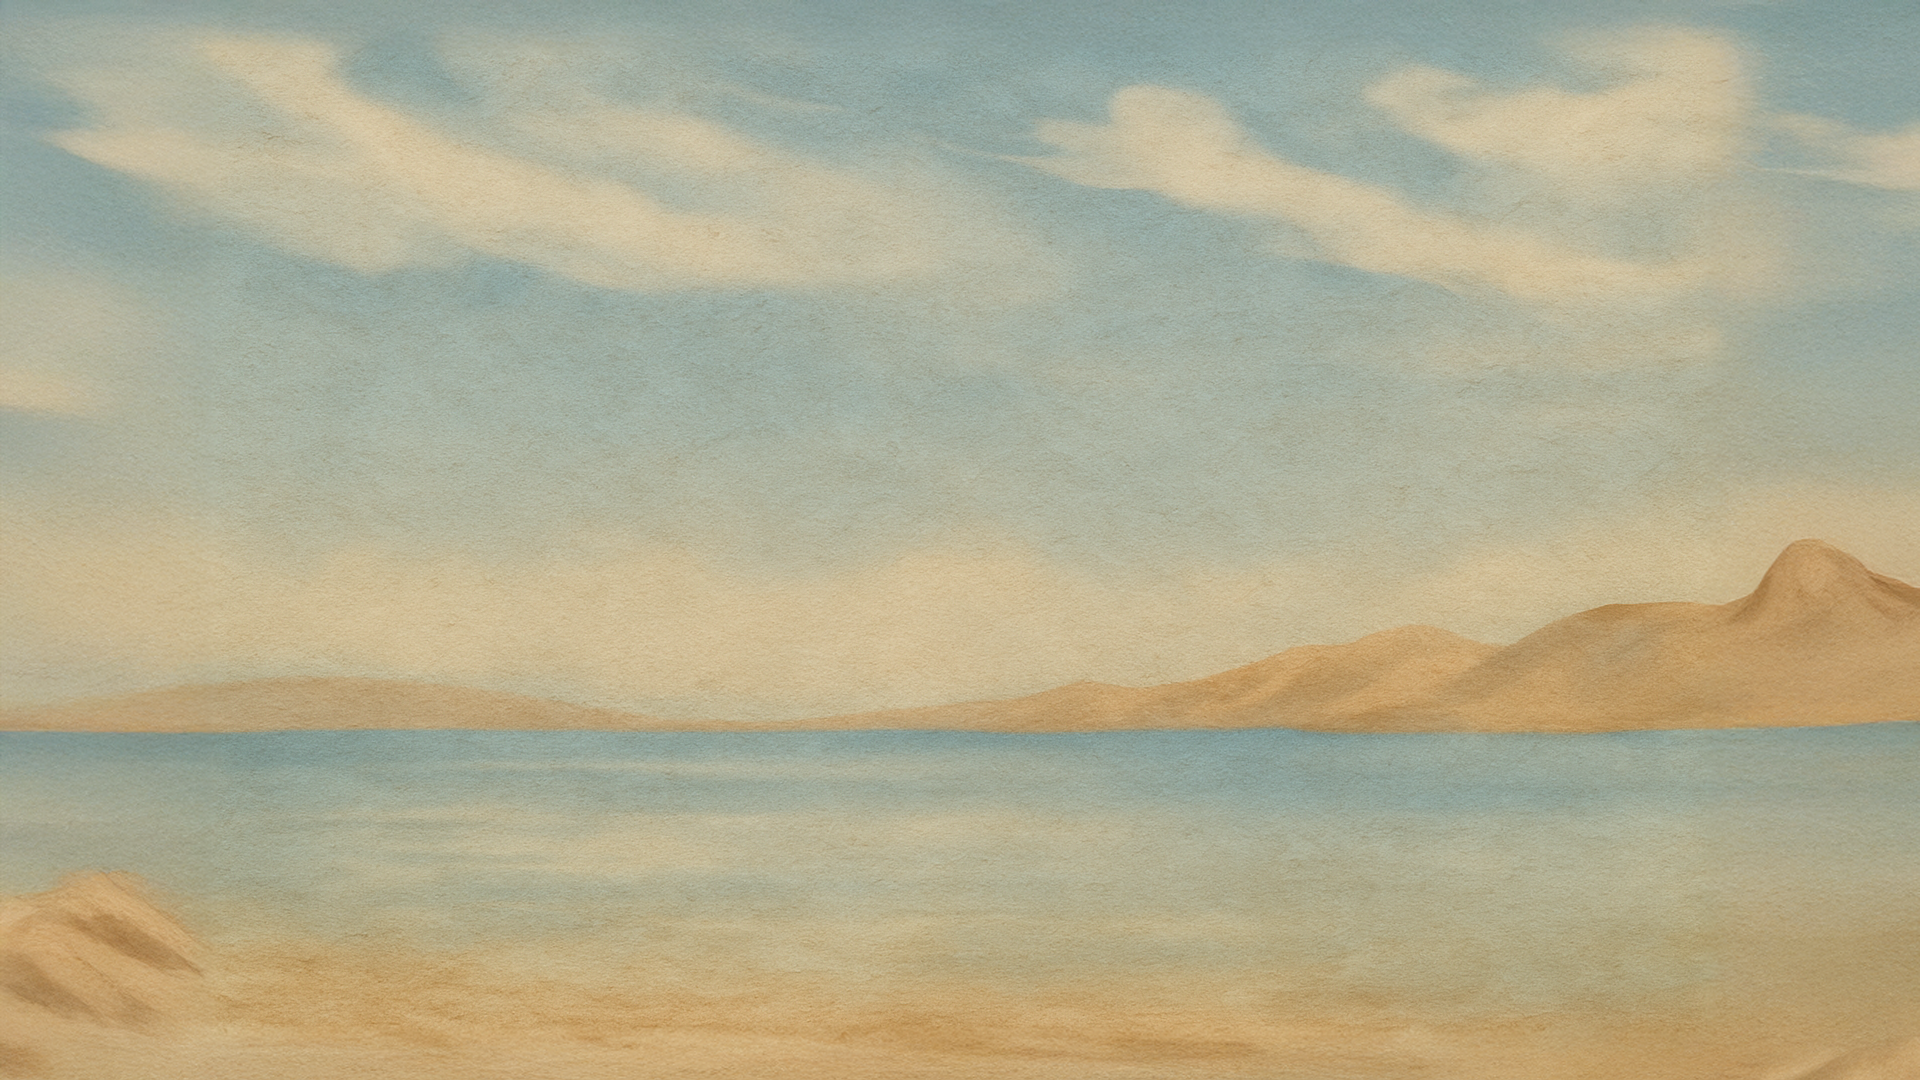
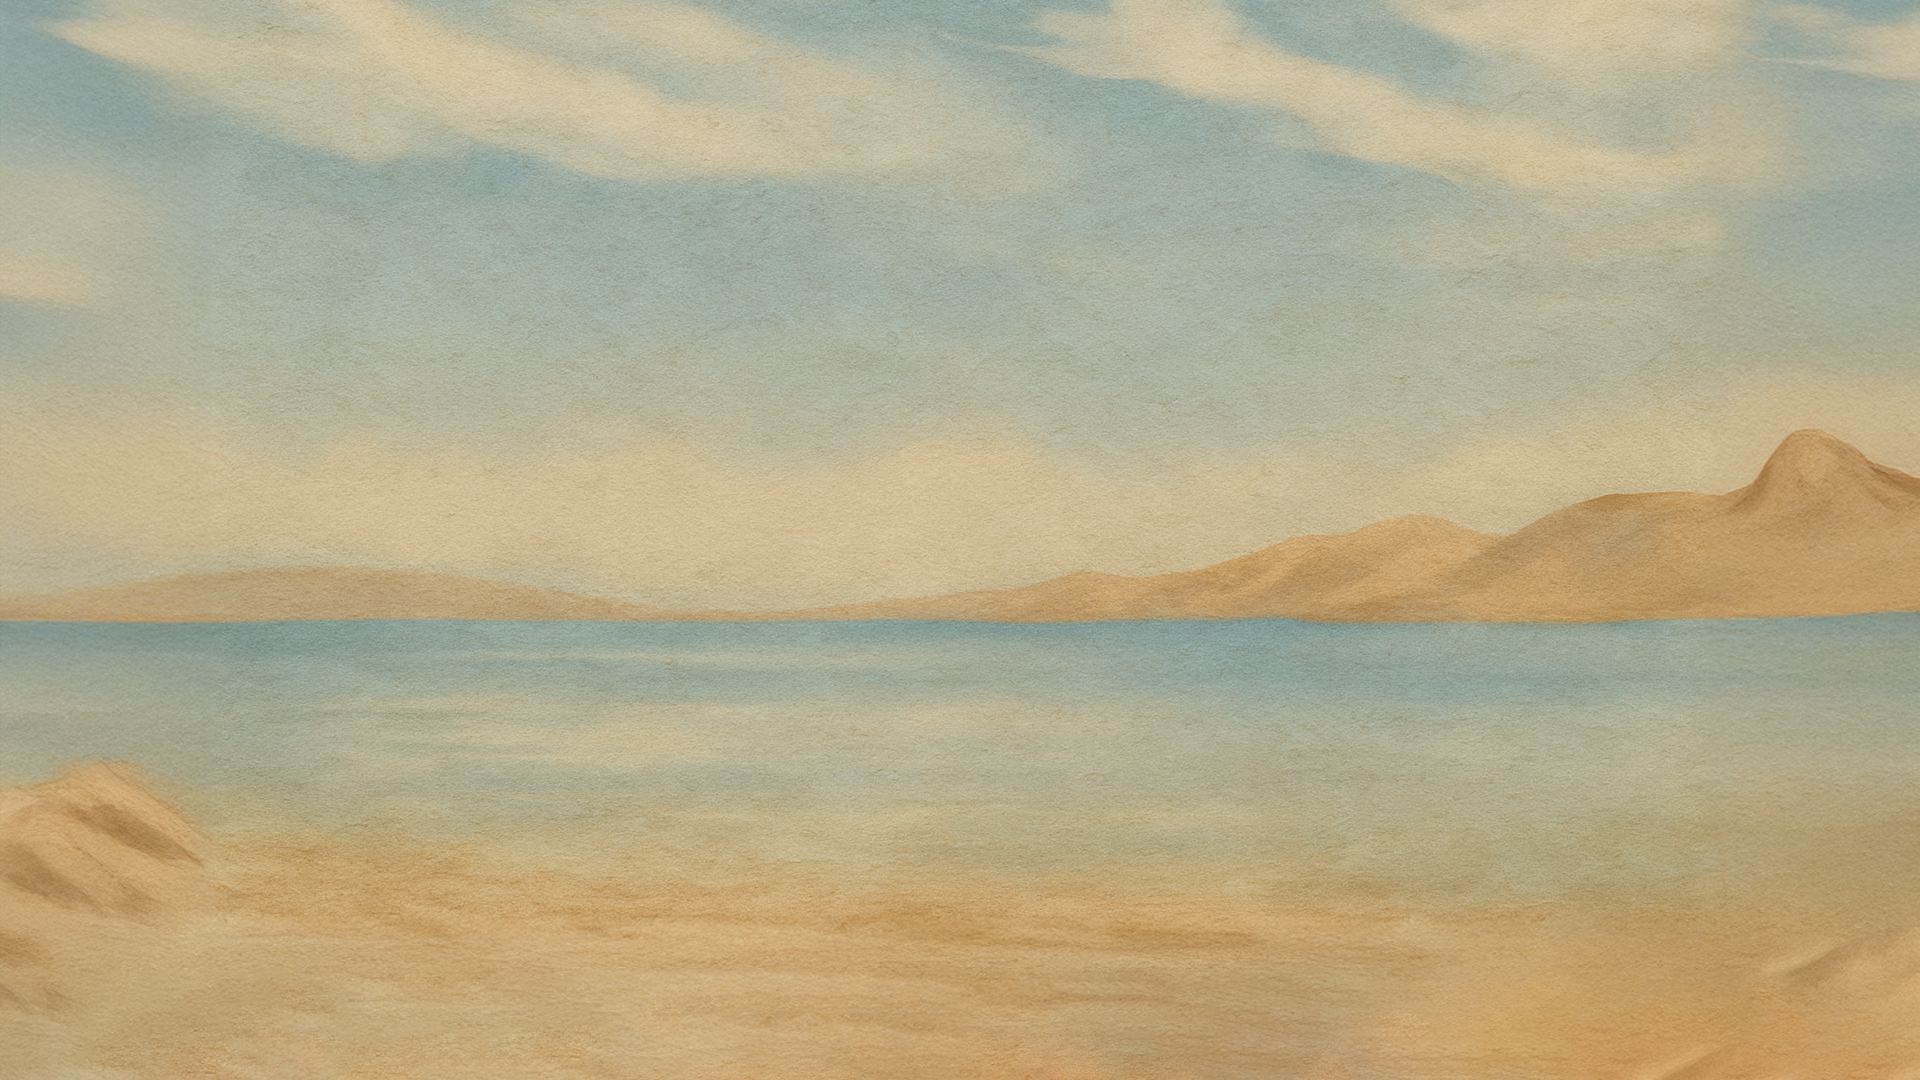
fkf

diff --git a/src/app/globals.css b/src/app/globals.css
@@ -57,7 +57,7 @@ body {
   width: 100vw;
   height: 110px;
   z-index: 50;
-  overflow: hidden;
+  overflow: visible;
 }
 
 .navbar-background {
@@ -72,18 +72,11 @@ body {
 .navbar-background-image {
   width: 100%;
   height: 100%;
-  object-fit: cover;
+  object-fit: fill;
 }
 
 .navbar-overlay {
-  position: absolute;
-  top: 0;
-  left: 0;
-  width: 100%;
-  height: 100%;
-  background: rgba(255, 255, 255, 0.4);
-  backdrop-filter: blur(2px);
-  z-index: 2;
+  /* הסרת שכבת הרקע - תמונת הרקע תהיה נקייה */
 }
 
 .navbar-content {
@@ -103,18 +96,62 @@ body {
   display: flex;
   flex-direction: column;
   align-items: center;
-  gap: 0.5rem;
-  transition: all 0.3s ease;
   text-decoration: none;
+  position: absolute;
+  left: 50%;
+  top: 50%;
+  transform: translate(-50%, -50%);
+  z-index: 10;
+}
+
+.navbar-logo-section::before {
+  content: '';
+  position: absolute;
+  top: 50%;
+  left: 50%;
+  transform: translate(-50%, -50%);
+  width: 110px;
+  height: 110px;
+  background: radial-gradient(circle, rgba(255, 255, 255, 0.95) 0%, rgba(255, 250, 200, 0.8) 60%, rgba(255, 245, 180, 0.4) 100%);
+  border-radius: 50%;
+  z-index: -1;
+  box-shadow: 
+    0 0 25px rgba(255, 250, 200, 0.9),
+    0 0 50px rgba(255, 245, 180, 0.7),
+    0 0 90px rgba(255, 240, 160, 0.5),
+    0 0 130px rgba(255, 235, 140, 0.3),
+    0 0 170px rgba(255, 230, 120, 0.2);
+}
+
+.navbar-logo-section::after {
+  content: '';
+  position: absolute;
+  top: 50%;
+  left: 50%;
+  transform: translate(-50%, -50%);
+  width: 200px;
+  height: 200px;
+  background: 
+    linear-gradient(0deg, transparent 40%, rgba(255, 245, 180, 0.2) 47%, rgba(255, 240, 160, 0.4) 50%, rgba(255, 245, 180, 0.2) 53%, transparent 60%),
+    linear-gradient(45deg, transparent 40%, rgba(255, 245, 180, 0.2) 47%, rgba(255, 240, 160, 0.4) 50%, rgba(255, 245, 180, 0.2) 53%, transparent 60%),
+    linear-gradient(90deg, transparent 40%, rgba(255, 245, 180, 0.2) 47%, rgba(255, 240, 160, 0.4) 50%, rgba(255, 245, 180, 0.2) 53%, transparent 60%),
+    linear-gradient(135deg, transparent 40%, rgba(255, 245, 180, 0.2) 47%, rgba(255, 240, 160, 0.4) 50%, rgba(255, 245, 180, 0.2) 53%, transparent 60%),
+    linear-gradient(22.5deg, transparent 40%, rgba(255, 250, 200, 0.15) 47%, rgba(255, 245, 180, 0.3) 50%, rgba(255, 250, 200, 0.15) 53%, transparent 60%),
+    linear-gradient(67.5deg, transparent 40%, rgba(255, 250, 200, 0.15) 47%, rgba(255, 245, 180, 0.3) 50%, rgba(255, 250, 200, 0.15) 53%, transparent 60%),
+    linear-gradient(112.5deg, transparent 40%, rgba(255, 250, 200, 0.15) 47%, rgba(255, 245, 180, 0.3) 50%, rgba(255, 250, 200, 0.15) 53%, transparent 60%),
+    linear-gradient(157.5deg, transparent 40%, rgba(255, 250, 200, 0.15) 47%, rgba(255, 245, 180, 0.3) 50%, rgba(255, 250, 200, 0.15) 53%, transparent 60%);
+  border-radius: 50%;
+  z-index: -2;
+  opacity: 0.8;
 }
 
 .navbar-logo-section:hover {
-  transform: translateY(-2px);
+  /* הסרת אפקט המעבר */
 }
 
 .navbar-logo {
-  width: 60px;
-  height: 60px;
+  width: 80px;
+  height: 80px;
   display: flex;
   align-items: center;
   justify-content: center;
@@ -148,6 +185,14 @@ body {
   display: flex;
   align-items: center;
   gap: 3rem; /* גדלתי ל-48px ריווח */
+}
+
+.navbar-nav-desktop:first-child {
+  justify-content: flex-start;
+}
+
+.navbar-nav-desktop:last-child {
+  justify-content: flex-end;
 }
 
 .navbar-nav-link {
@@ -248,6 +293,8 @@ body {
 @media (max-width: 768px) {
   .navbar-content {
     padding: 0 1.5rem;
+    justify-content: center;
+    position: relative;
   }
   
   .navbar-nav-desktop {
@@ -256,6 +303,14 @@ body {
   
   .navbar-mobile-button {
     display: block;
+    position: absolute;
+    left: 1.5rem;
+  }
+  
+  .navbar-logo-section {
+    position: static;
+    transform: none;
+    left: auto;
   }
   
   .navbar-logo-text {
@@ -263,14 +318,18 @@ body {
   }
   
   .navbar-logo {
-    width: 50px;
-    height: 50px;
+    width: 65px;
+    height: 65px;
   }
 }
 
 @media (max-width: 480px) {
   .navbar-content {
     padding: 0 1rem;
+  }
+  
+  .navbar-mobile-button {
+    left: 1rem;
   }
   
   .navbar-logo-text {
@@ -622,4 +681,23 @@ input:focus-visible {
   .placeholder-subcaption-sm {
     font-size: 0.8125rem !important; /* 13px */
   }
+}
+
+/* השמש מגלשת להירו */
+.navbar-container::after {
+  content: '';
+  position: absolute;
+  top: 100%;
+  left: 50%;
+  transform: translateX(-50%);
+  width: 2px;
+  height: 150px;
+  background: linear-gradient(180deg, rgba(255, 240, 160, 0.4) 0%, transparent 100%);
+  box-shadow: 
+    0 0 30px 15px rgba(255, 245, 180, 0.2),
+    0 0 60px 25px rgba(255, 240, 160, 0.15),
+    0 0 100px 35px rgba(255, 235, 140, 0.1),
+    0 0 150px 50px rgba(255, 230, 120, 0.05);
+  z-index: 45;
+  pointer-events: none;
 }

diff --git a/src/components/Header.tsx b/src/components/Header.tsx
@@ -8,15 +8,22 @@ import Image from 'next/image';
 const Header = () => {
   const [isMenuOpen, setIsMenuOpen] = useState(false);
 
-  const navItems = [
+  // חלוקת פריטי הניווט לשתי קבוצות
+  const leftNavItems = [
     { name: 'בית', href: '/' },
     { name: 'אירועים', href: '/events' },
     { name: 'מפגשים', href: '/meetings' },
+  ];
+
+  const rightNavItems = [
     { name: 'מדיטציות', href: '/meditations' },
     { name: 'גלריה', href: '/gallery' },
     { name: 'מאמרים', href: '/articles' },
-    { name: 'צרו קשר', href: '/contact' },
+   
   ];
+
+  // כל הפריטים למובייל
+  const allNavItems = [...leftNavItems, ...rightNavItems];
 
   return (
     <header className="navbar-container">
@@ -28,21 +35,32 @@ const Header = () => {
           fill
           className="navbar-background-image"
           priority
-          style={{ objectFit: 'cover' }}
+          style={{ objectFit: 'fill' }}
         />
-        {/* שכבת overlay עדינה */}
-        <div className="navbar-overlay"></div>
       </div>
 
       <div className="navbar-content">
-        {/* לוגו וטקסט - מימין */}
+        {/* Desktop Navigation - שמאל */}
+        <nav className="navbar-nav-desktop">
+          {leftNavItems.map((item) => (
+            <Link
+              key={item.name}
+              href={item.href}
+              className="navbar-nav-link"
+            >
+              {item.name}
+            </Link>
+          ))}
+        </nav>
+
+        {/* לוגו וטקסט - באמצע */}
         <Link href="/" className="navbar-logo-section">
           <div className="navbar-logo">
             <Image
               src="/images/rnd_logo.png"
               alt="לוגו Be Meditation"
-              width={60}
-              height={60}
+              width={80}
+              height={80}
               className="navbar-logo-image"
               priority
             />
@@ -52,9 +70,9 @@ const Header = () => {
           </div>
         </Link>
 
-        {/* Desktop Navigation - משמאל */}
+        {/* Desktop Navigation - ימין */}
         <nav className="navbar-nav-desktop">
-          {navItems.map((item) => (
+          {rightNavItems.map((item) => (
             <Link
               key={item.name}
               href={item.href}
@@ -79,7 +97,7 @@ const Header = () => {
       {isMenuOpen && (
         <div className="navbar-mobile-menu">
           <nav className="navbar-mobile-nav">
-            {navItems.map((item) => (
+            {allNavItems.map((item) => (
               <Link
                 key={item.name}
                 href={item.href}

diff --git a/src/components/HeroSection.tsx b/src/components/HeroSection.tsx
@@ -63,7 +63,7 @@ const HeroSection = ({ title }: HeroSectionProps) => {
       className="relative min-h-screen flex items-center justify-center overflow-hidden"
       style={{
         backgroundImage: `url(/images/herobg.png)`,
-        backgroundSize: 'cover',
+        backgroundSize: '100% 100%',
         backgroundPosition: 'center center',
         backgroundRepeat: 'no-repeat',
       }}
